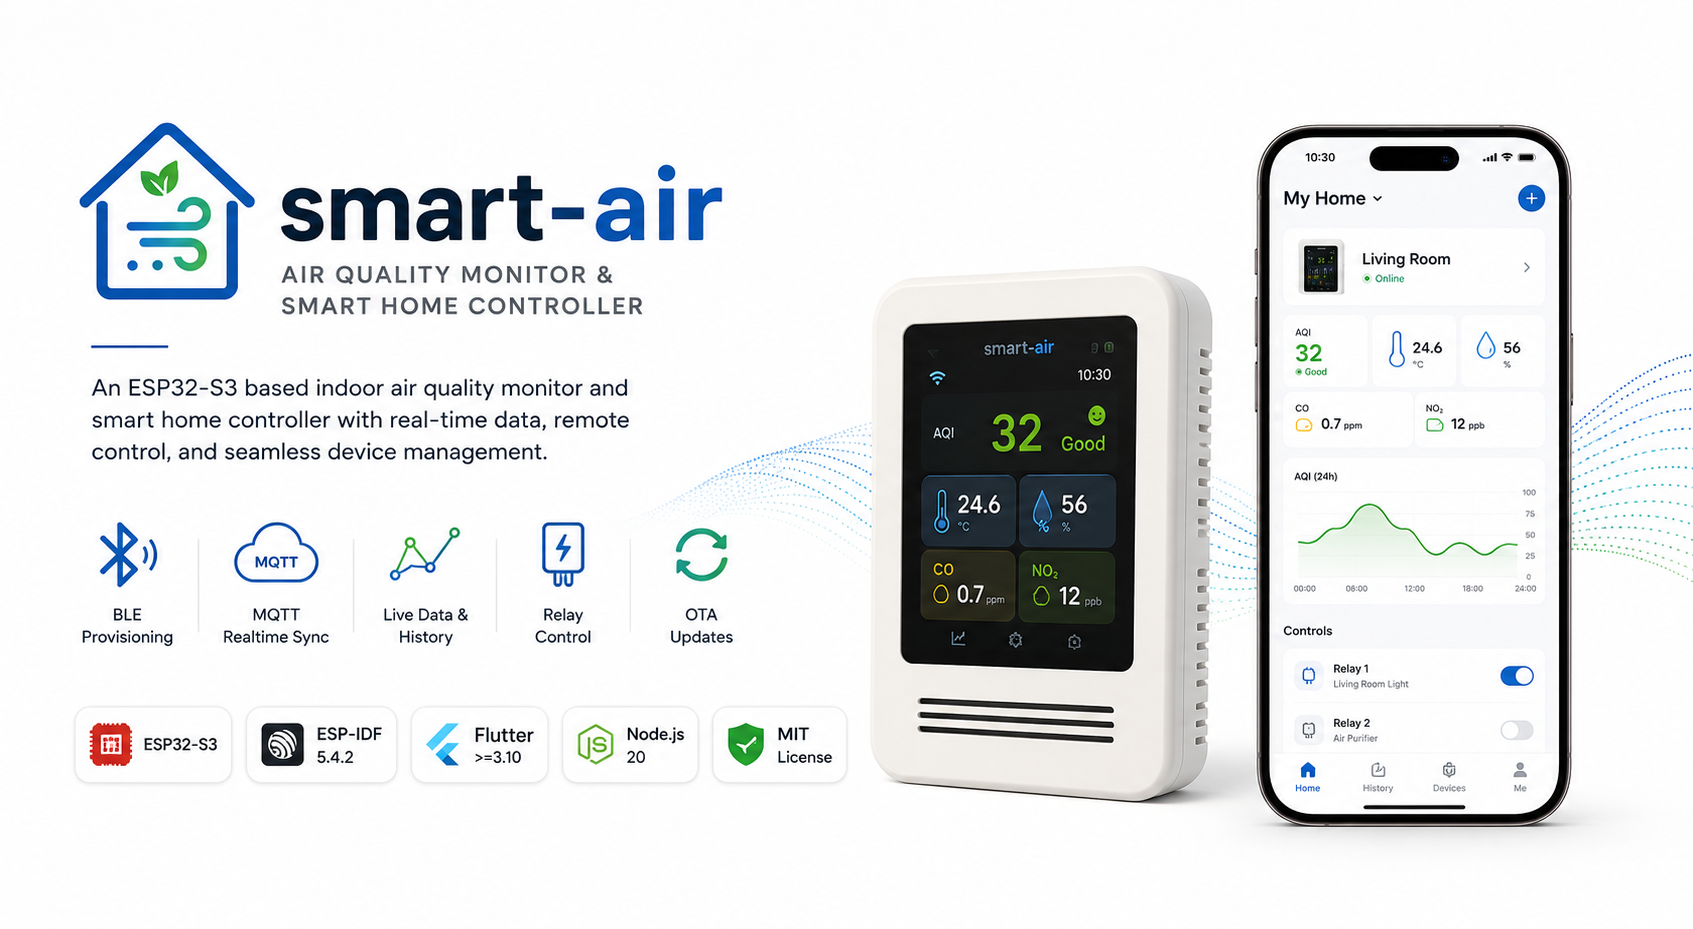
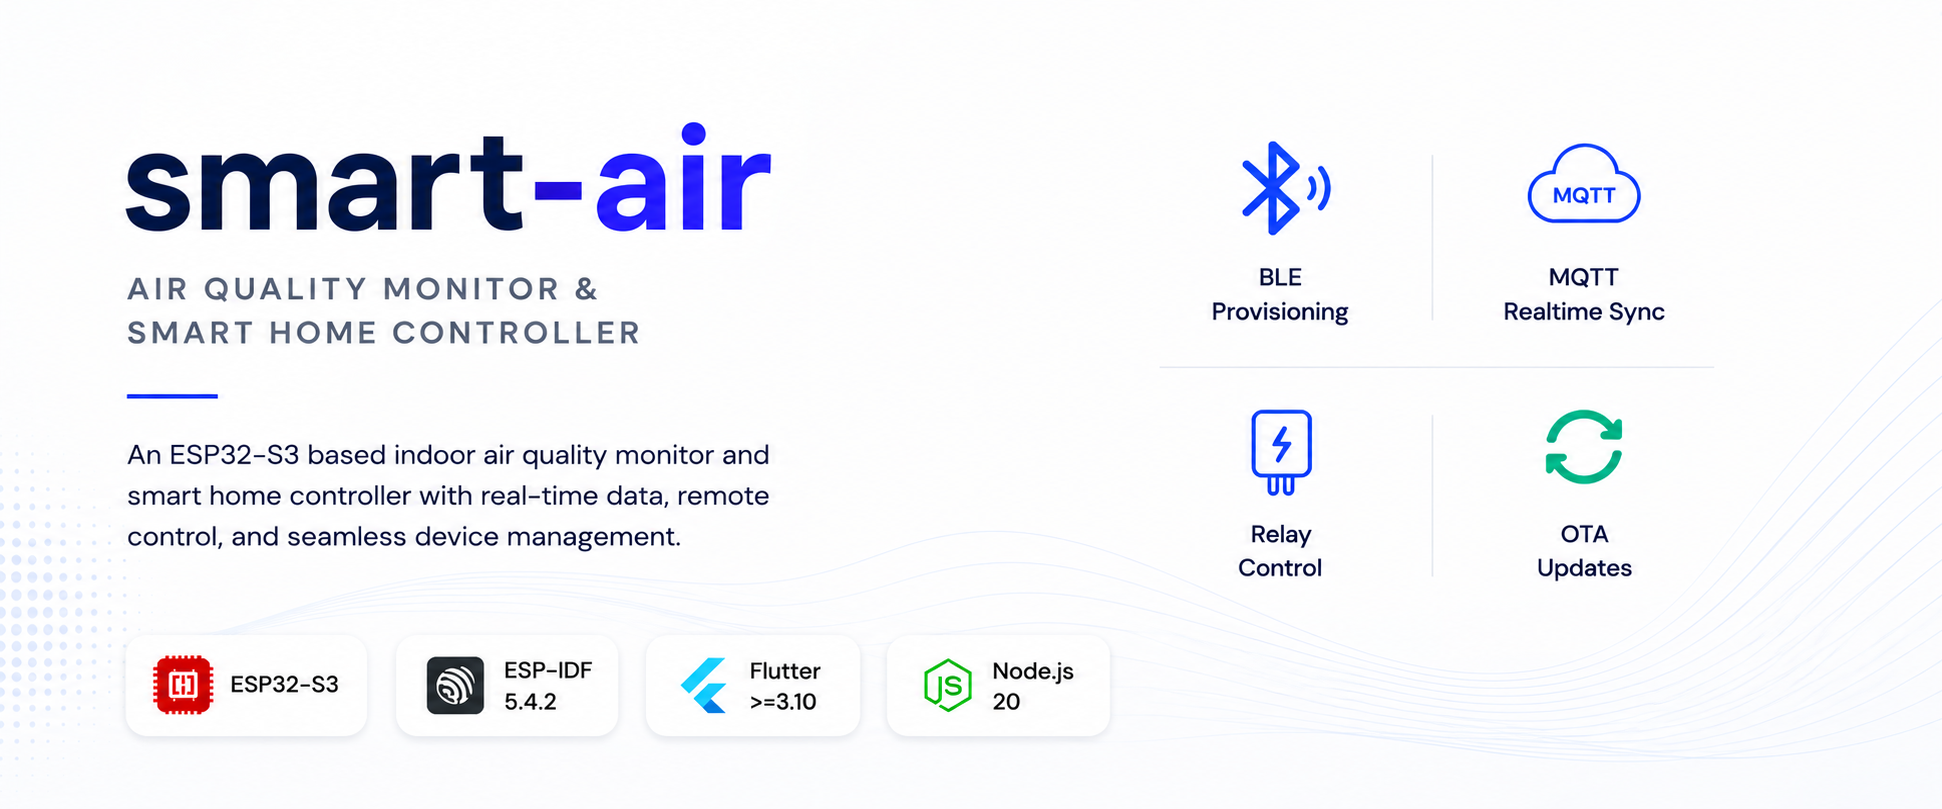
docs: update hero.png and add list LGVL in readme

diff --git a/README.md b/README.md
@@ -16,7 +16,7 @@ The device uses BLE for Wi-Fi provisioning, then publishes telemetry and shadow 
 
 ## Features
 
-- ESP32-S3 firmware on ESP-IDF with BLE provisioning, Wi-Fi, MQTT, OTA hooks, sensor polling, display control, and relay control.
+- ESP32-S3 firmware on ESP-IDF with BLE provisioning, Wi-Fi, MQTT, OTA hooks, sensor polling, display control, LGVL and relay control.
 - Fastify API with PostgreSQL/TimescaleDB, Redis, and EMQX in Docker Compose.
 - Device registration flow that provisions per-device MQTT credentials through the API.
 - Realtime app updates over SSE, with REST kept as the canonical path for snapshots, history, replay, and fallback.
